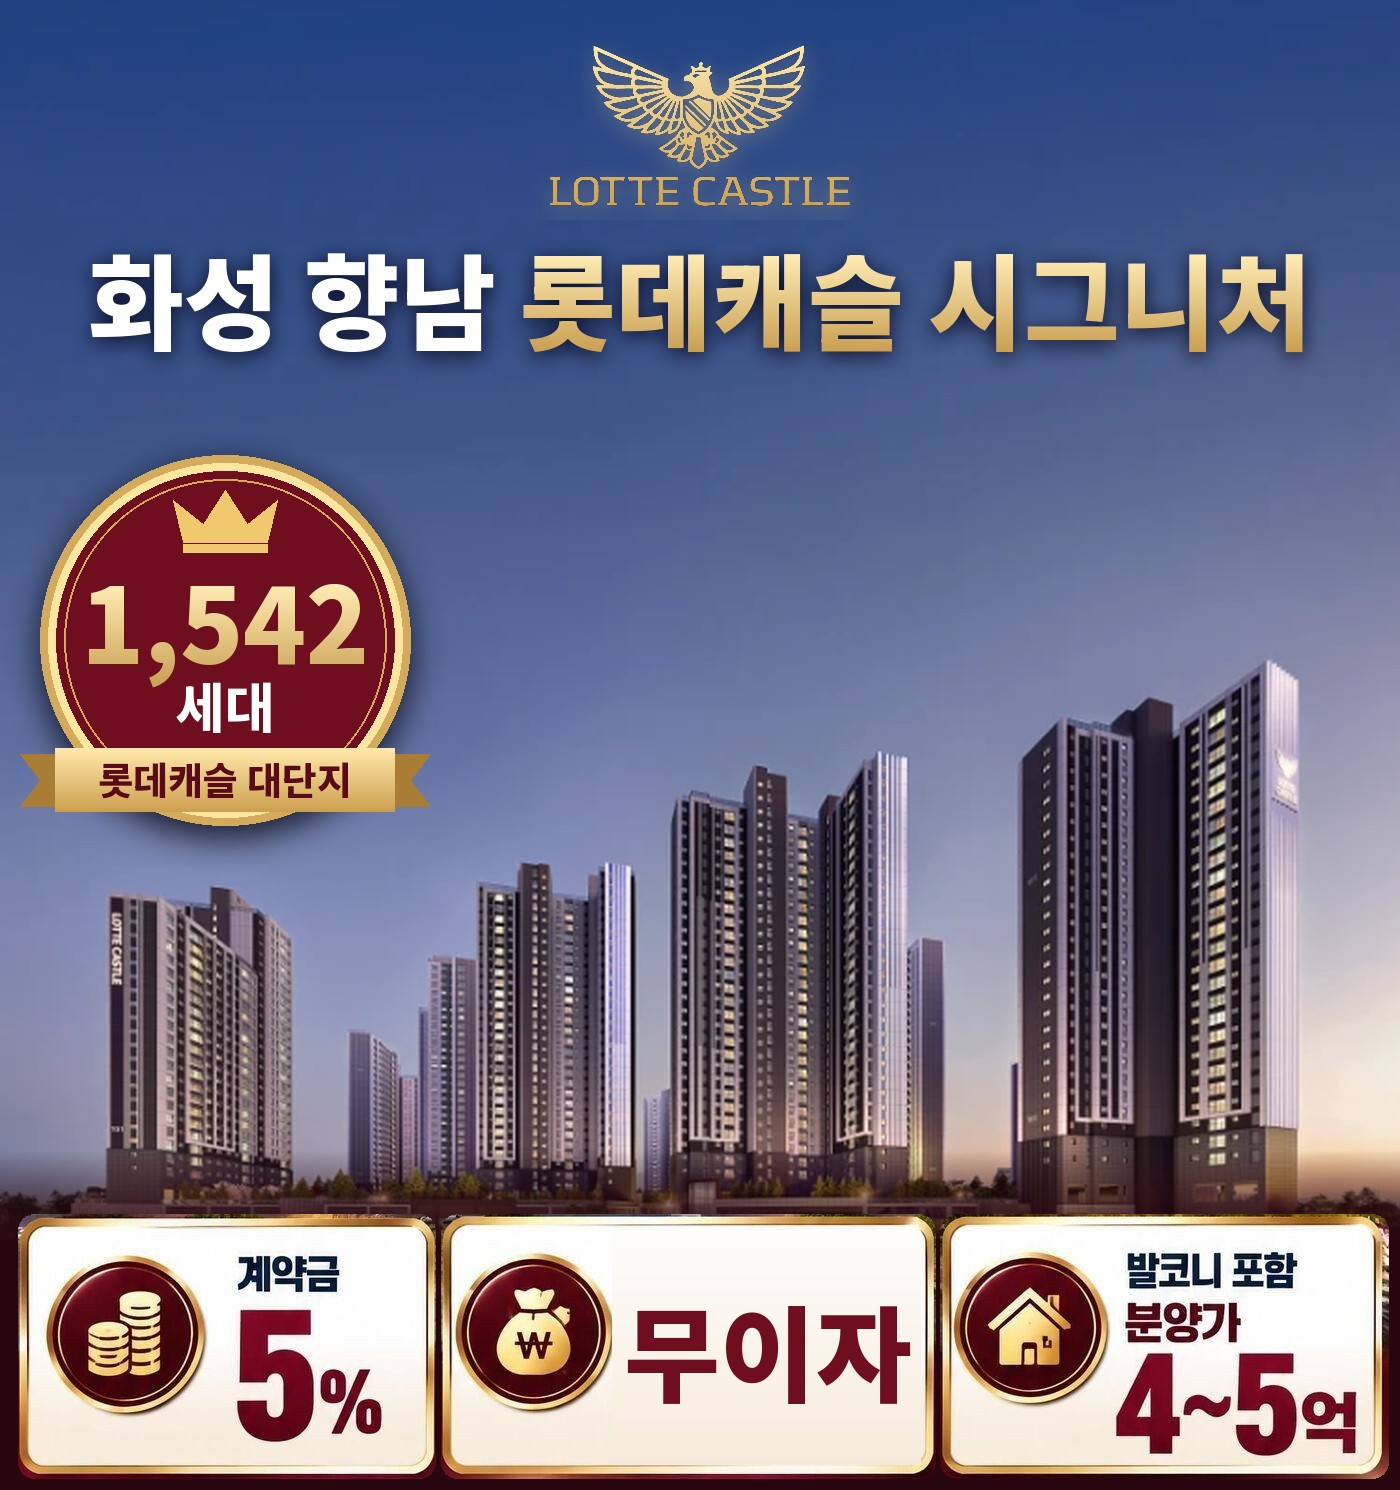
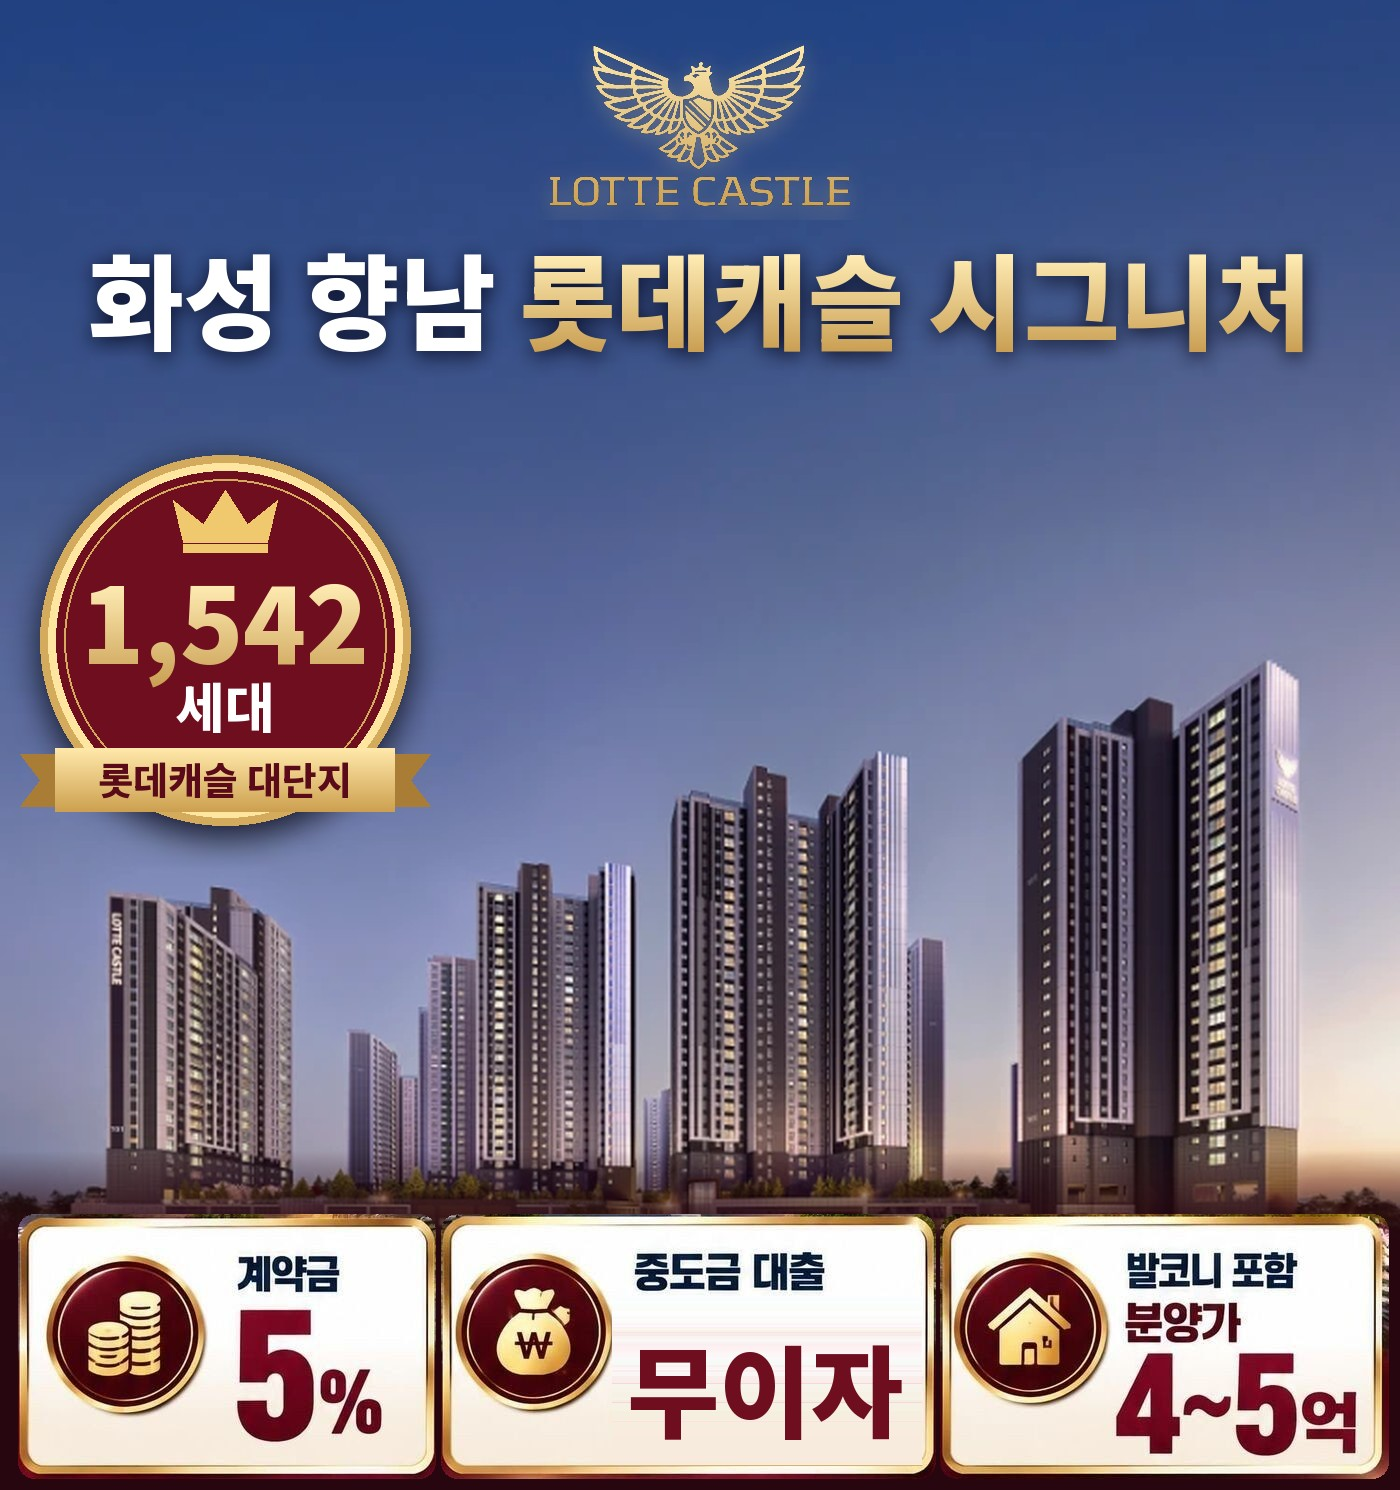
대문 가운데 칸: 중도금 대출 문구 살리고 60% 자리에 무이자

Changed region(s): [[0.43, 0.8336, 0.645, 0.9879]]

diff --git a/index.html b/index.html
@@ -221,7 +221,7 @@ footer button{background:none;border:0;color:var(--gold2);text-decoration:underl
 
 <div class="hero" id="top">
   <div class="heroin">
-    <div class="img"><img src="img/hero.jpg" alt="화성 향남 롯데캐슬 시그니처 투시도" width="1400" height="1490"></div>
+    <div class="img"><img src="img/hero.jpg?v=3" alt="화성 향남 롯데캐슬 시그니처 투시도" width="1400" height="1490"></div>
     <div class="txt">
       <p class="eyebrow">Hwaseong Hyangnam</p>
       <h1>화성 향남<br><em>롯데캐슬 시그니처</em></h1>
